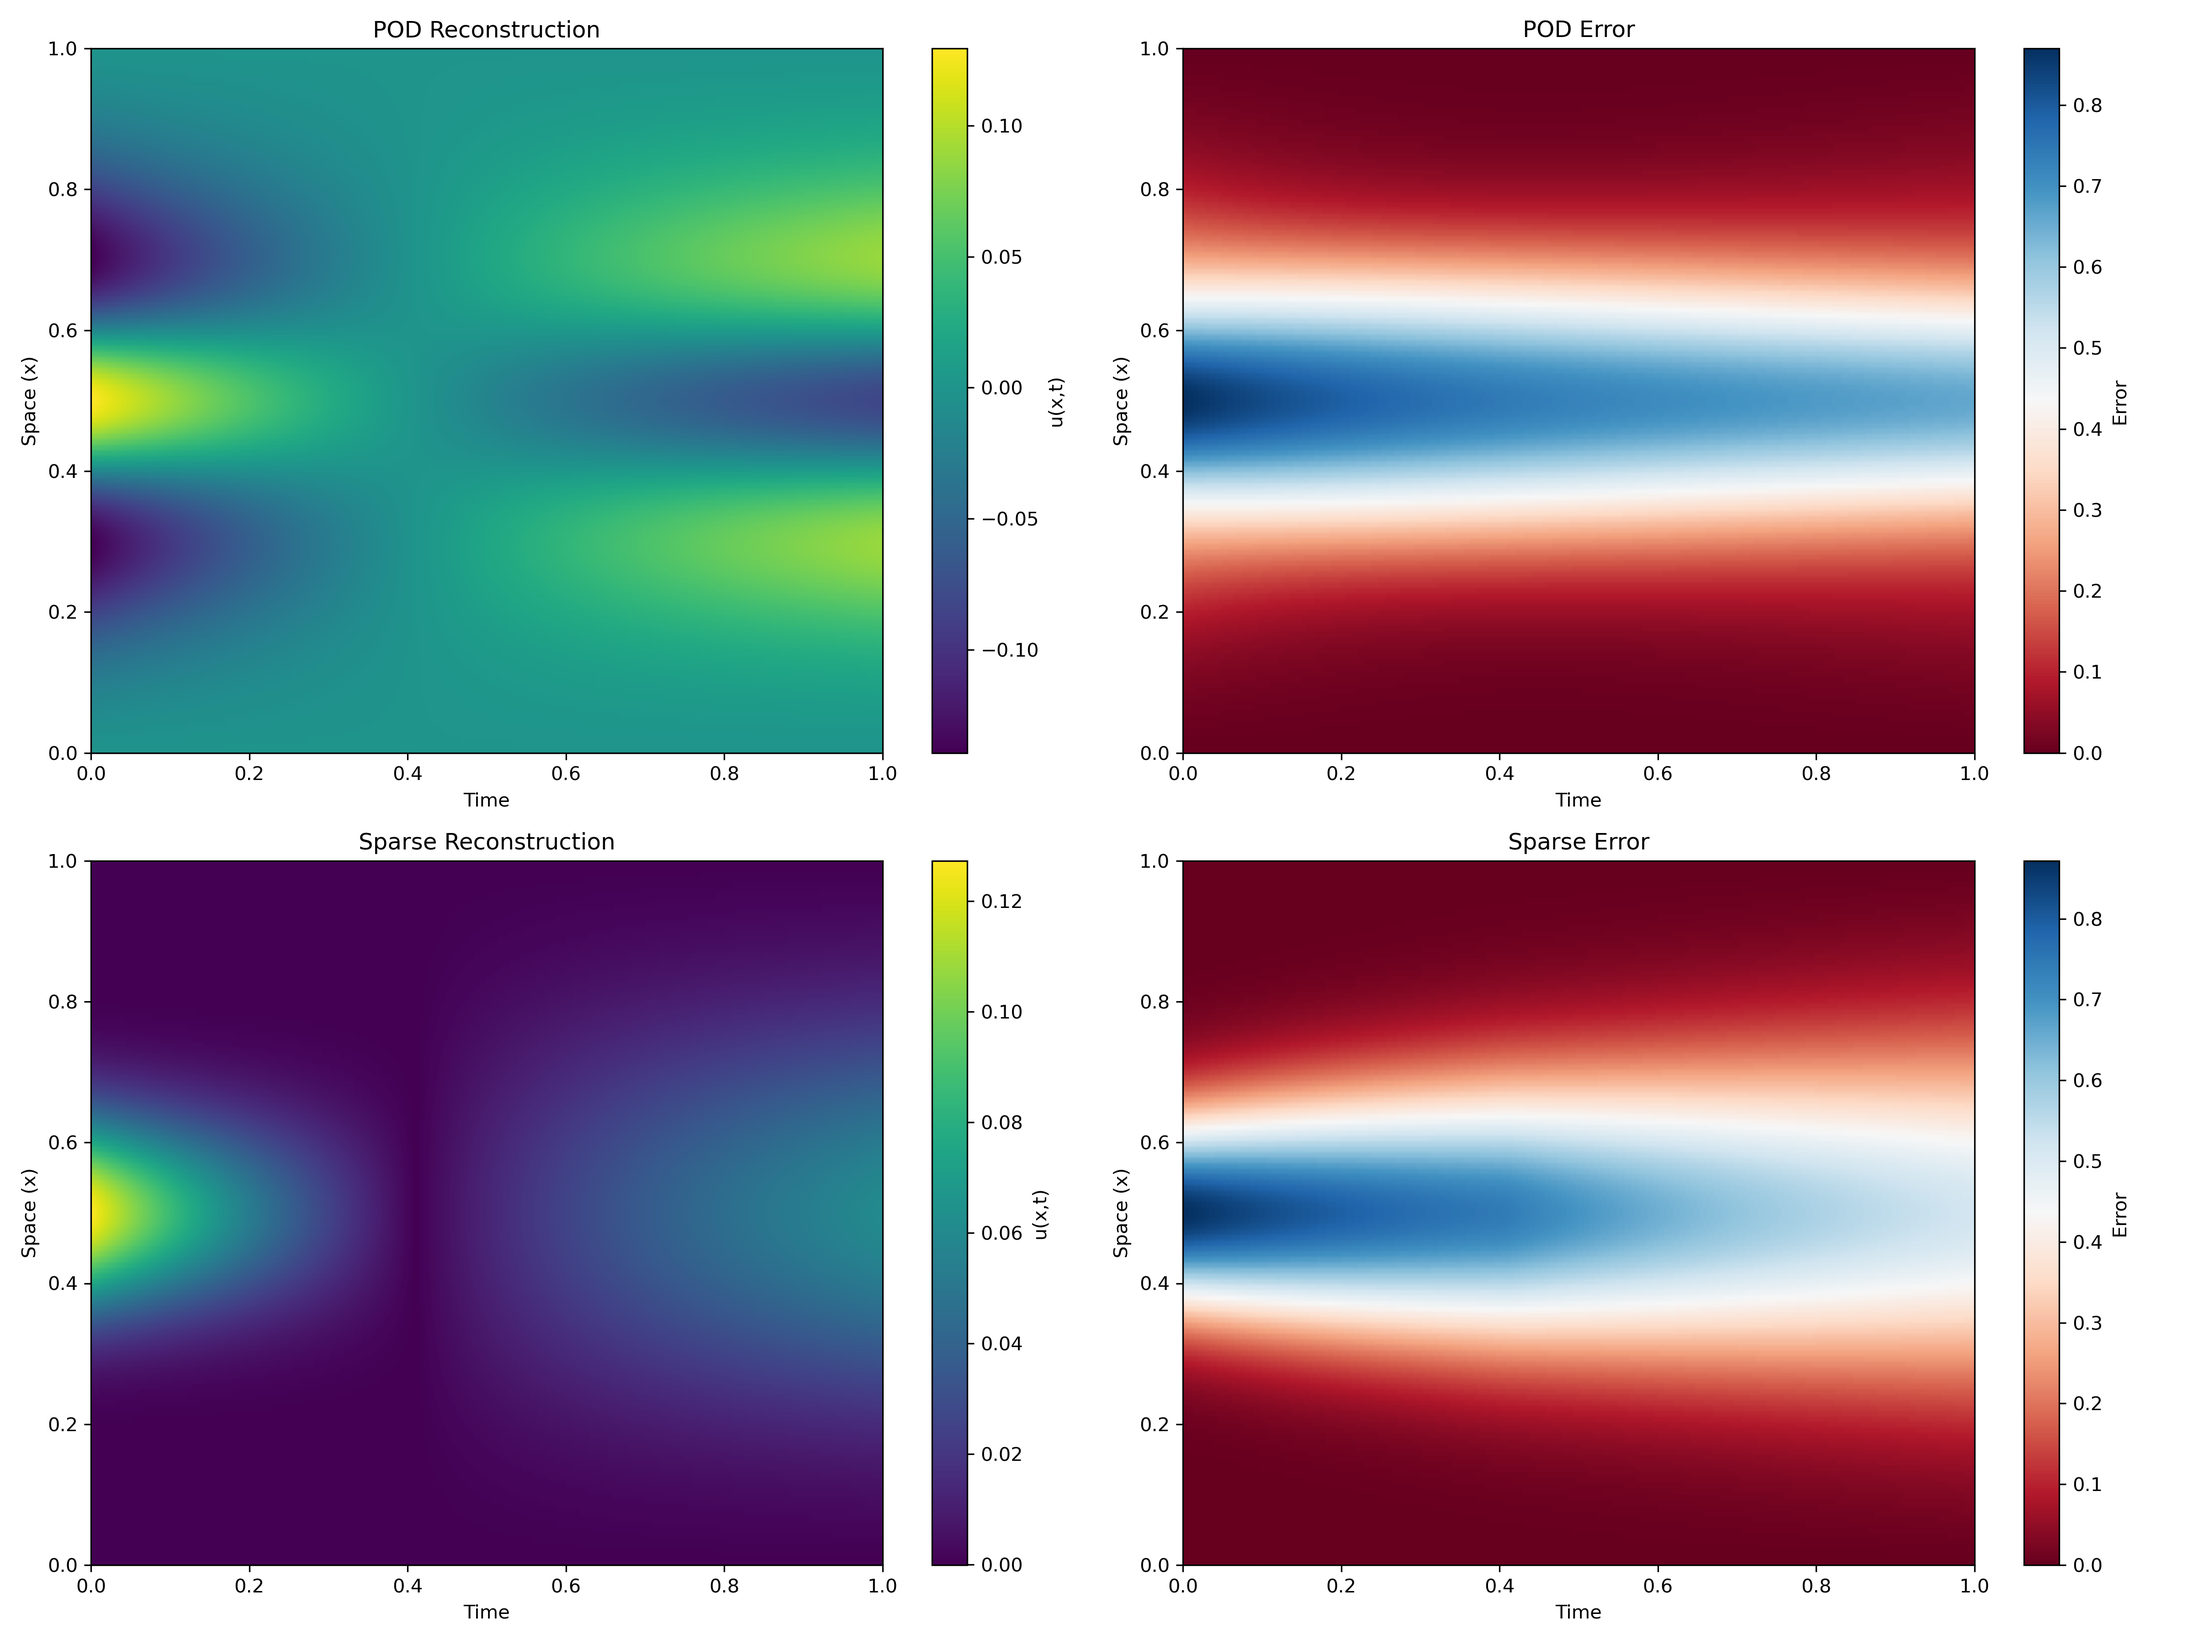
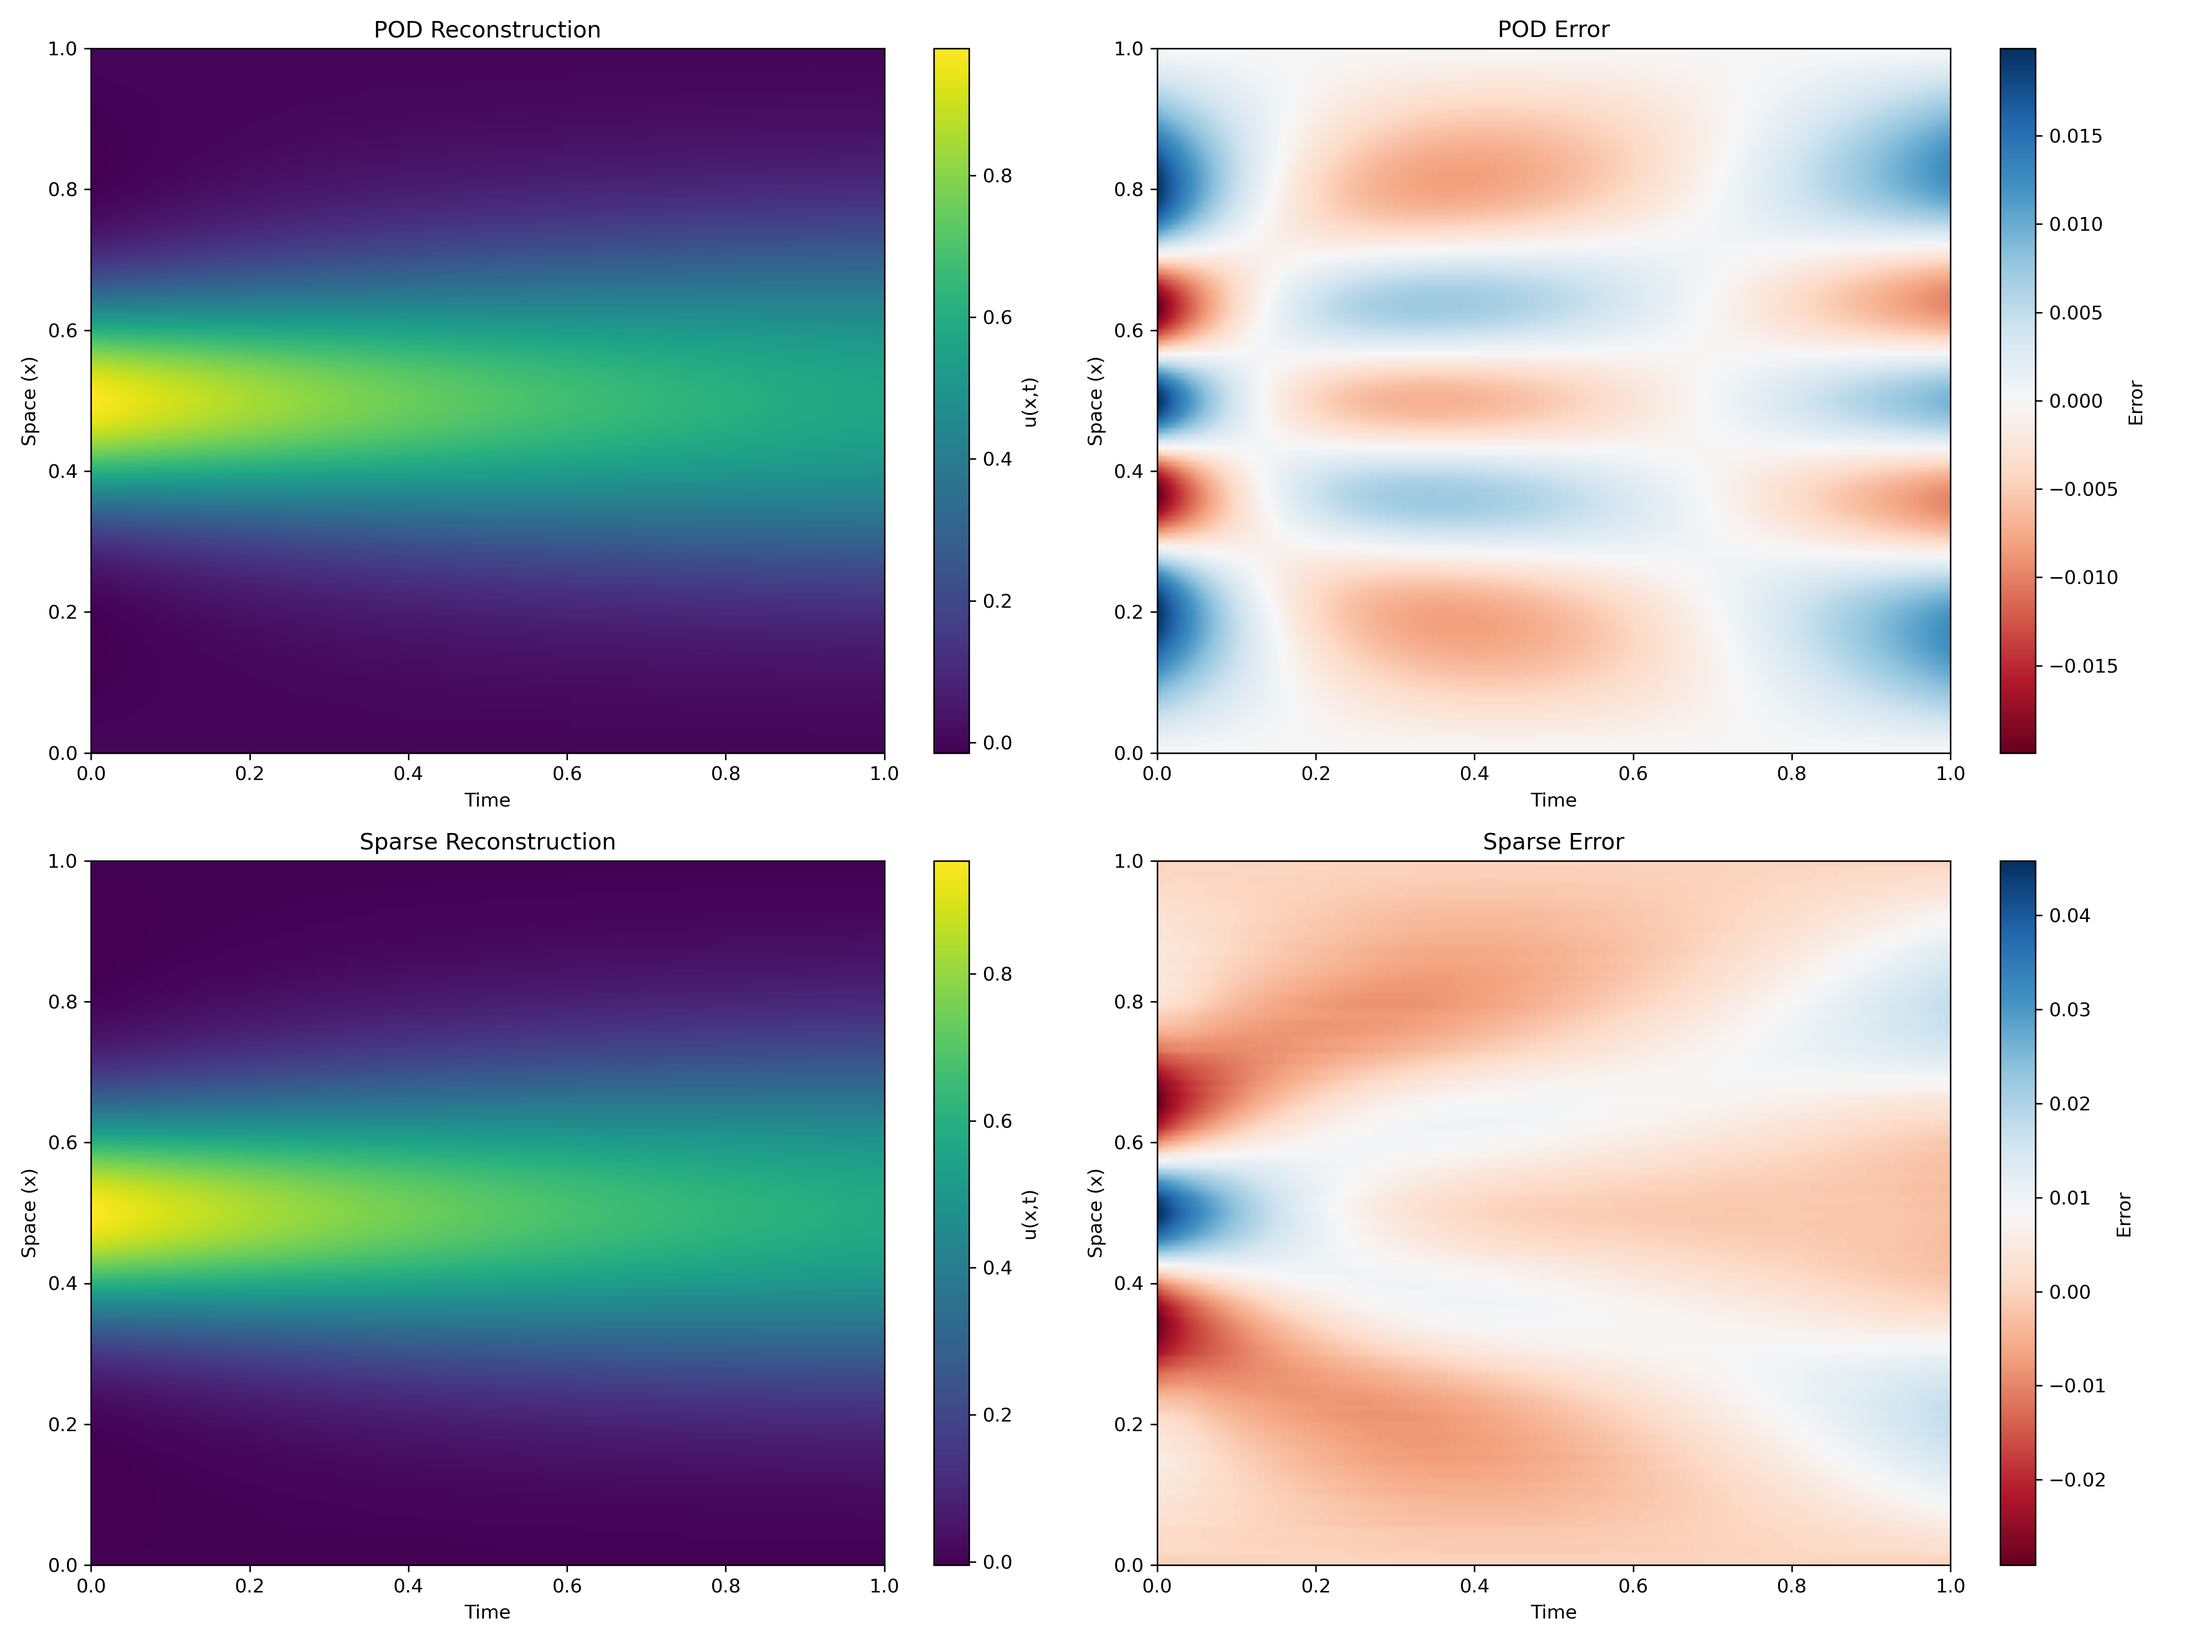
use softplus to enforce positivity on omega

diff --git a/src/sparsemodesnet/model.py b/src/sparsemodesnet/model.py
@@ -2,6 +2,9 @@ import torch
 import torch.nn as nn
 import torch.nn.functional as F
 
+class SoftplusParameterization(nn.Module):
+    def forward(self, X):
+        return F.softplus(X)
 class SparseModesNet(nn.Module):
     """
     LassoNet in POD-space (R^s → R^s), but loss computed in original x-space:
@@ -31,7 +34,11 @@ class SparseModesNet(nn.Module):
         self.lam = float(lam)
 
         # Skip‐weights ω ∈ R^s
-        self.omega = nn.Parameter(torch.ones(self.s))
+        # self.omega = nn.Parameter(torch.ones(self.s))
+        self.omega_raw = nn.Parameter(torch.ones(self.s) * 0.1)
+        
+        # Softplus parameterization to ensure omega > 0
+        self.softplus = SoftplusParameterization()
 
         # Build f_NN in POD-space (can't have biases to kill zero features)
         self.first_layer = nn.Linear(self.s, hidden_units[0], bias=False)
@@ -41,6 +48,11 @@ class SparseModesNet(nn.Module):
             layers.append(nn.ReLU(inplace=True))
         layers.append(nn.Linear(hidden_units[-1], self.s, bias=False))
         self.net = nn.Sequential(*layers)
+        
+    @property
+    def omega(self):
+        """Get the positive omega values using softplus"""
+        return self.softplus(self.omega_raw)
 
     def forward(self, z_batch):
         """
@@ -114,7 +126,8 @@ class SparseModesNet(nn.Module):
         a_s = lam - M * torch.cat([zeros_m, cumsum_vals], dim=1)  # (s, K+1)
 
         # 4) ‖v‖₂ = |θ|, shape (s,)
-        theta_abs = self.omega.data.abs()  # (s,)
+        # theta_abs = self.omega.data.abs()  # (s,)
+        theta_abs = self.omega.abs()  # (s,)
 
         # 5) Broadcast |θ| into (s, K+1)
         norm_v_col = theta_abs.unsqueeze(1).expand(-1, K+1)  # (s, K+1)
@@ -152,6 +165,13 @@ class SparseModesNet(nn.Module):
         W1_T_new   = W1_T.sign() * clipped_abs          # (s, K)
 
         # 14) Write back:
-        self.omega.data.copy_(b_new)               # (s,)
+        # self.omega.data.copy_(b_new)               # (s,)
         W1_updated = W1_T_new.t().contiguous() # shape: (K, s) → transpose to (h, s)
         self.first_layer.weight.data.copy_(W1_updated)
+        
+        with torch.no_grad():
+            # Convert back to unconstrained space using inverse softplus
+            # softplus^(-1)(x) = log(exp(x) - 1) for x > 0
+            # For numerical stability, use: log(exp(x) - 1) ≈ x - log(2) for large x
+            new_omega_raw = torch.log(torch.exp(b_new) - 1 + 1e-8)
+            self.omega_raw.data = new_omega_raw
